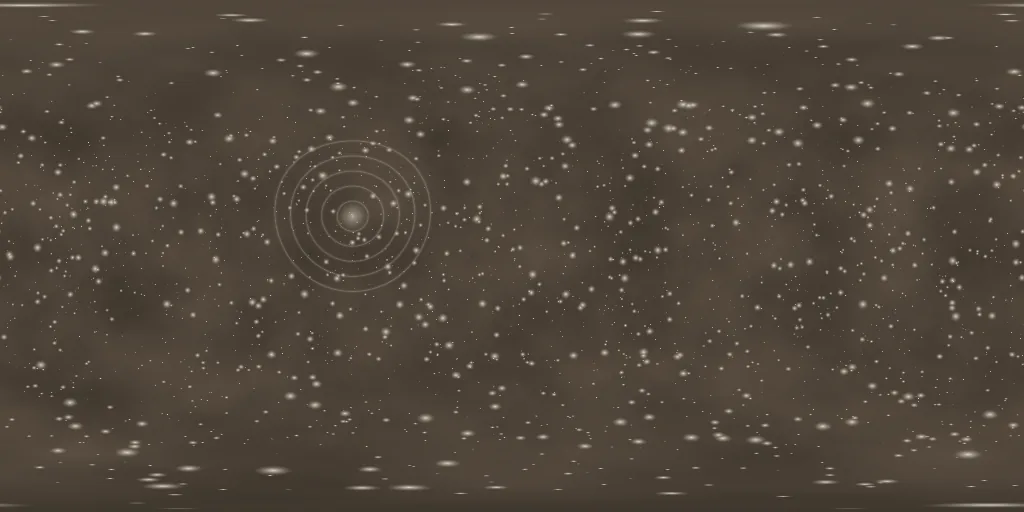
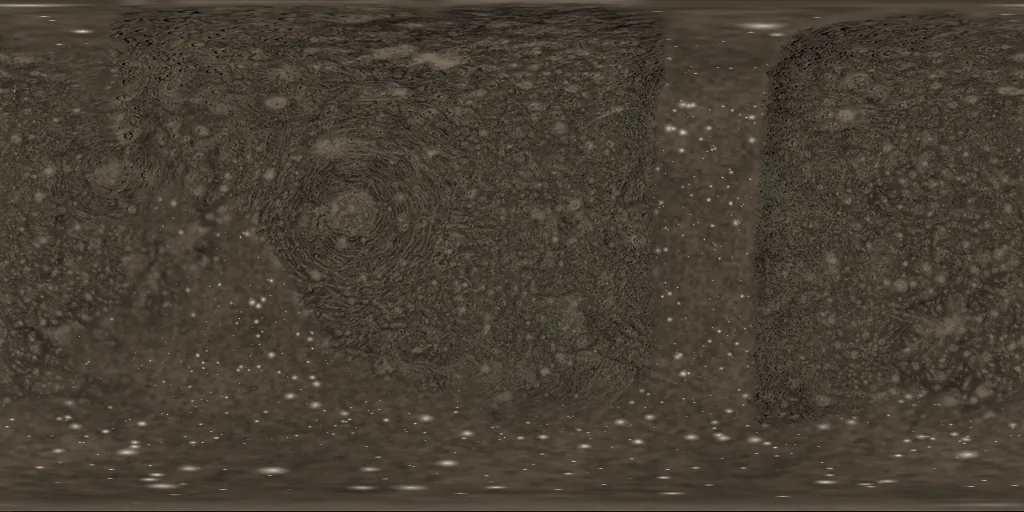
Europa, Calisto e Encélado com mapas de verdade da NASA/JPL
Os três mapas eram feitos só por código. Agora partem dos mapas em preto
e branco da NASA/JPL (Solar System Simulator, via NASA 3D Resources),
coloridos por código; onde nenhuma sonda fotografou de perto, o mapa é
completado com a ilustração de antes.

Claude-Session: https://claude.ai/code/session_018rZQndKJFgBvutsNBRZhZF

diff --git a/ferramentas/preparar_texturas_luas.py b/ferramentas/preparar_texturas_luas.py
@@ -4,24 +4,33 @@ Projeção equirretangular, longitude 0° no meio, gravados em img/texturas/:
   - Io, Ganimedes, Titã, Tritão, Fobos e Deimos: mapas do Celestia (CelestiaContent,
     pasta textures/hires), feitos com dados da NASA/JPL/USGS — CC BY 3.0 / CC BY 4.0
     (Deimos: CC0). Aqui só são reduzidos e convertidos para WebP.
-  - Europa, Calisto, Encélado e Caronte: mapas ILUSTRATIVOS gerados por este script
-    (ruído e formas simples), com as cores e as marcas mais conhecidas das fotos.
+  - Europa, Calisto e Encélado: mapas de verdade do Simulador do Sistema Solar do JPL
+    (NASA 3D Resources, pasta "Images and Textures"; sem direitos autorais), feitos
+    com as fotos das sondas Voyager e Galileo. Vêm em tons de cinza: aqui ganham as
+    cores das fotos e, onde as sondas não fotografaram de perto (trechos lisos), são
+    completados com o mapa ilustrativo. Em Encélado, as "listras de tigre" do polo
+    sul (descobertas depois, pela Cassini) também são ilustração.
+  - Caronte: mapa ILUSTRATIVO gerado por este script (ruído e formas simples), com as
+    cores e as marcas mais conhecidas das fotos da New Horizons.
 
-Fonte: https://github.com/CelestiaProject/CelestiaContent (textures/hires)
+Fontes: https://github.com/CelestiaProject/CelestiaContent (textures/hires)
+        https://github.com/nasa/NASA-3D-Resources (Images and Textures)
 
 Uso:
   pip install numpy pillow
-  python ferramentas/preparar_texturas_luas.py --celestia CelestiaContent/textures/hires
+  python ferramentas/preparar_texturas_luas.py --celestia CelestiaContent/textures/hires \
+      --nasa "NASA-3D-Resources/Images and Textures"
 """
 import argparse
 from pathlib import Path
 
 import numpy as np
-from PIL import Image
+from PIL import Image, ImageFilter
 
 L, A = 1024, 512
 DESTINO = Path(__file__).resolve().parent.parent / "img" / "texturas"
 ORIGEM = None
+NASA = None
 
 
 def salvar(img, nome, largura=L):
@@ -154,12 +163,68 @@ def caronte():
     return cor
 
 
+# ---------- Mapas de verdade da NASA (Europa, Calisto e Encélado) ----------
+
+def mapa_nasa(nome):
+    """Mapa em tons de cinza do Simulador do Sistema Solar do JPL (longitude 0° no meio, leste à direita)."""
+    img = Image.open(Path(NASA) / nome / f"{nome}.jpg").convert("L").resize((L, A), Image.LANCZOS)
+    return np.asarray(img).astype(np.float32) / 255
+
+
+def borrar(m, raio):
+    """Desfoque que dá a volta no mapa (a borda esquerda continua na direita)."""
+    margem = int(raio * 3) + 1
+    largo = np.concatenate([m[:, -margem:], m, m[:, :margem]], axis=1)
+    img = Image.fromarray((np.clip(largo, 0, 1) * 255).astype(np.uint8)).filter(ImageFilter.GaussianBlur(raio))
+    return np.asarray(img).astype(np.float32)[:, margem:-margem] / 255
+
+
+def onde_ha_fotos(g, minimo, maximo):
+    """1 onde o mapa tem detalhe fino (fotos de perto); 0 onde é liso (nunca fotografado de perto)."""
+    detalhe = borrar(np.clip(np.abs(g - borrar(g, 2.5)) * 10, 0, 1), 7)
+    t = np.clip((detalhe - minimo) / (maximo - minimo), 0, 1)
+    return borrar(t * t * (3 - 2 * t), 5)[..., None]
+
+
+def europa_real():
+    g = mapa_nasa("Jupiter - Europa")[..., None]
+    # Cores das fotos: gelo claro; rachaduras e terrenos manchados em marrom-avermelhado.
+    escuro, medio, claro = hexa("#6b4530"), hexa("#c8b092"), hexa("#f3eee4")
+    return np.where(g < 0.62, escuro + (medio - escuro) * (g / 0.62), medio + (claro - medio) * ((g - 0.62) / 0.38))
+
+
+def calisto_real():
+    g = mapa_nasa("Jupiter - Callisto")
+    fotos = onde_ha_fotos(g, 0.26, 0.42)
+    # Tira o clarão liso das faixas sem fotos, para a emenda não aparecer.
+    plano = np.clip(g - borrar(g, 22) + 0.46, 0, 1)
+    real = hexa("#8a7c68")[None, None] * (0.05 + 1.0 * plano[..., None])
+    # Onde ninguém fotografou de perto: ilustração com o mesmo grão e o mesmo tom do terreno de verdade.
+    _, _, p = coordenadas()
+    grao = ruido(p, 23, 4, 42.0)[..., None]
+    fundo = calisto() * (0.62 + 0.62 * grao)
+    return real * fotos + fundo * (1 - fotos)
+
+
+def encelado_real():
+    g = mapa_nasa("Saturn - Enceladus")
+    fotos = onde_ha_fotos(g, 0.04, 0.12)
+    real = hexa("#f4f7f9")[None, None] * (0.5 + 0.55 * g[..., None])
+    return real * fotos + encelado() * (1 - fotos)
+
+
 if __name__ == "__main__":
     argumentos = argparse.ArgumentParser(description=__doc__, formatter_class=argparse.RawDescriptionHelpFormatter)
-    argumentos.add_argument("--celestia", required=True, help="pasta textures/hires do CelestiaContent")
-    ORIGEM = argumentos.parse_args().celestia
+    argumentos.add_argument("--celestia", help="pasta textures/hires do CelestiaContent (Io, Ganimedes, Titã, Tritão, Fobos e Deimos)")
+    argumentos.add_argument("--nasa", help='pasta "Images and Textures" do NASA 3D Resources (Europa, Calisto e Encélado de verdade)')
+    opcoes = argumentos.parse_args()
+    ORIGEM, NASA = opcoes.celestia, opcoes.nasa
     DESTINO.mkdir(parents=True, exist_ok=True)
-    converter()
-    for nome, funcao in (("europa", europa), ("calisto", calisto), ("encelado", encelado), ("caronte", caronte)):
+    if ORIGEM:
+        converter()
+    # Sem a pasta da NASA, as três luas saem só como ilustração.
+    luas = (("europa", europa_real, europa), ("calisto", calisto_real, calisto), ("encelado", encelado_real, encelado), ("caronte", None, caronte))
+    for nome, real, ilustracao in luas:
+        funcao = real if (real and NASA) else ilustracao
         salvar(Image.fromarray((np.clip(funcao(), 0, 1) * 255).astype(np.uint8)), nome)
     print("mapas das luas ->", DESTINO)
